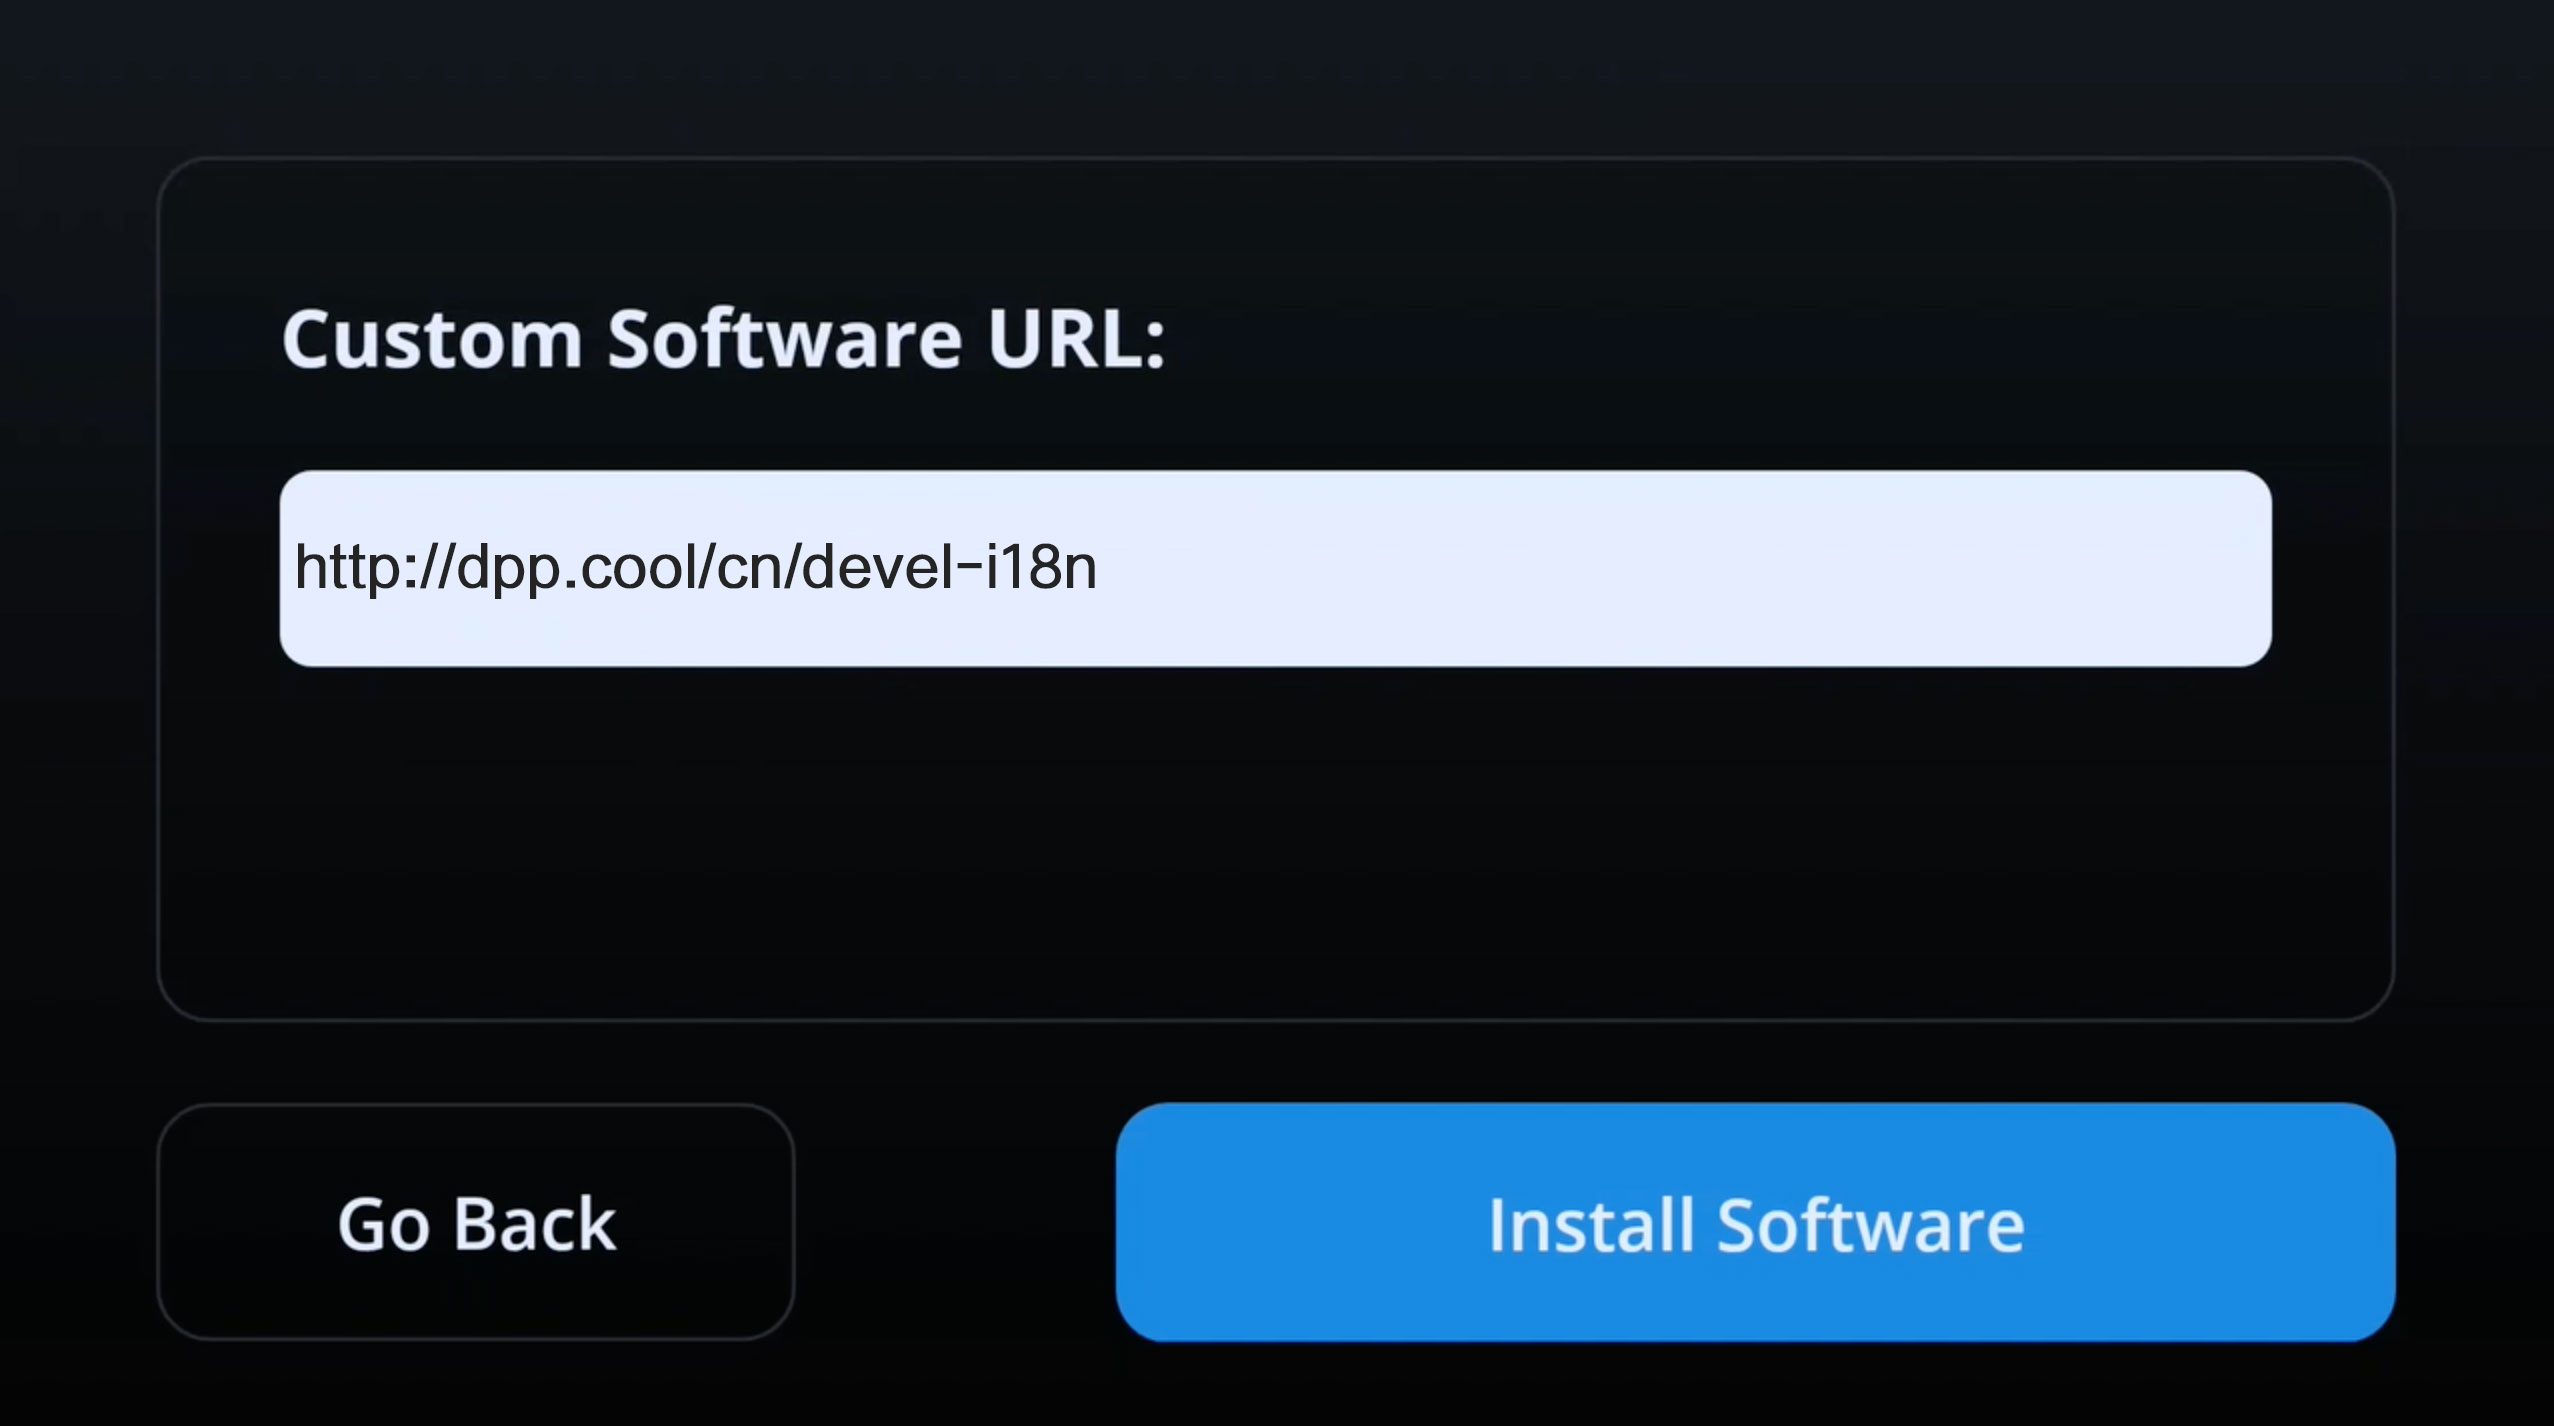
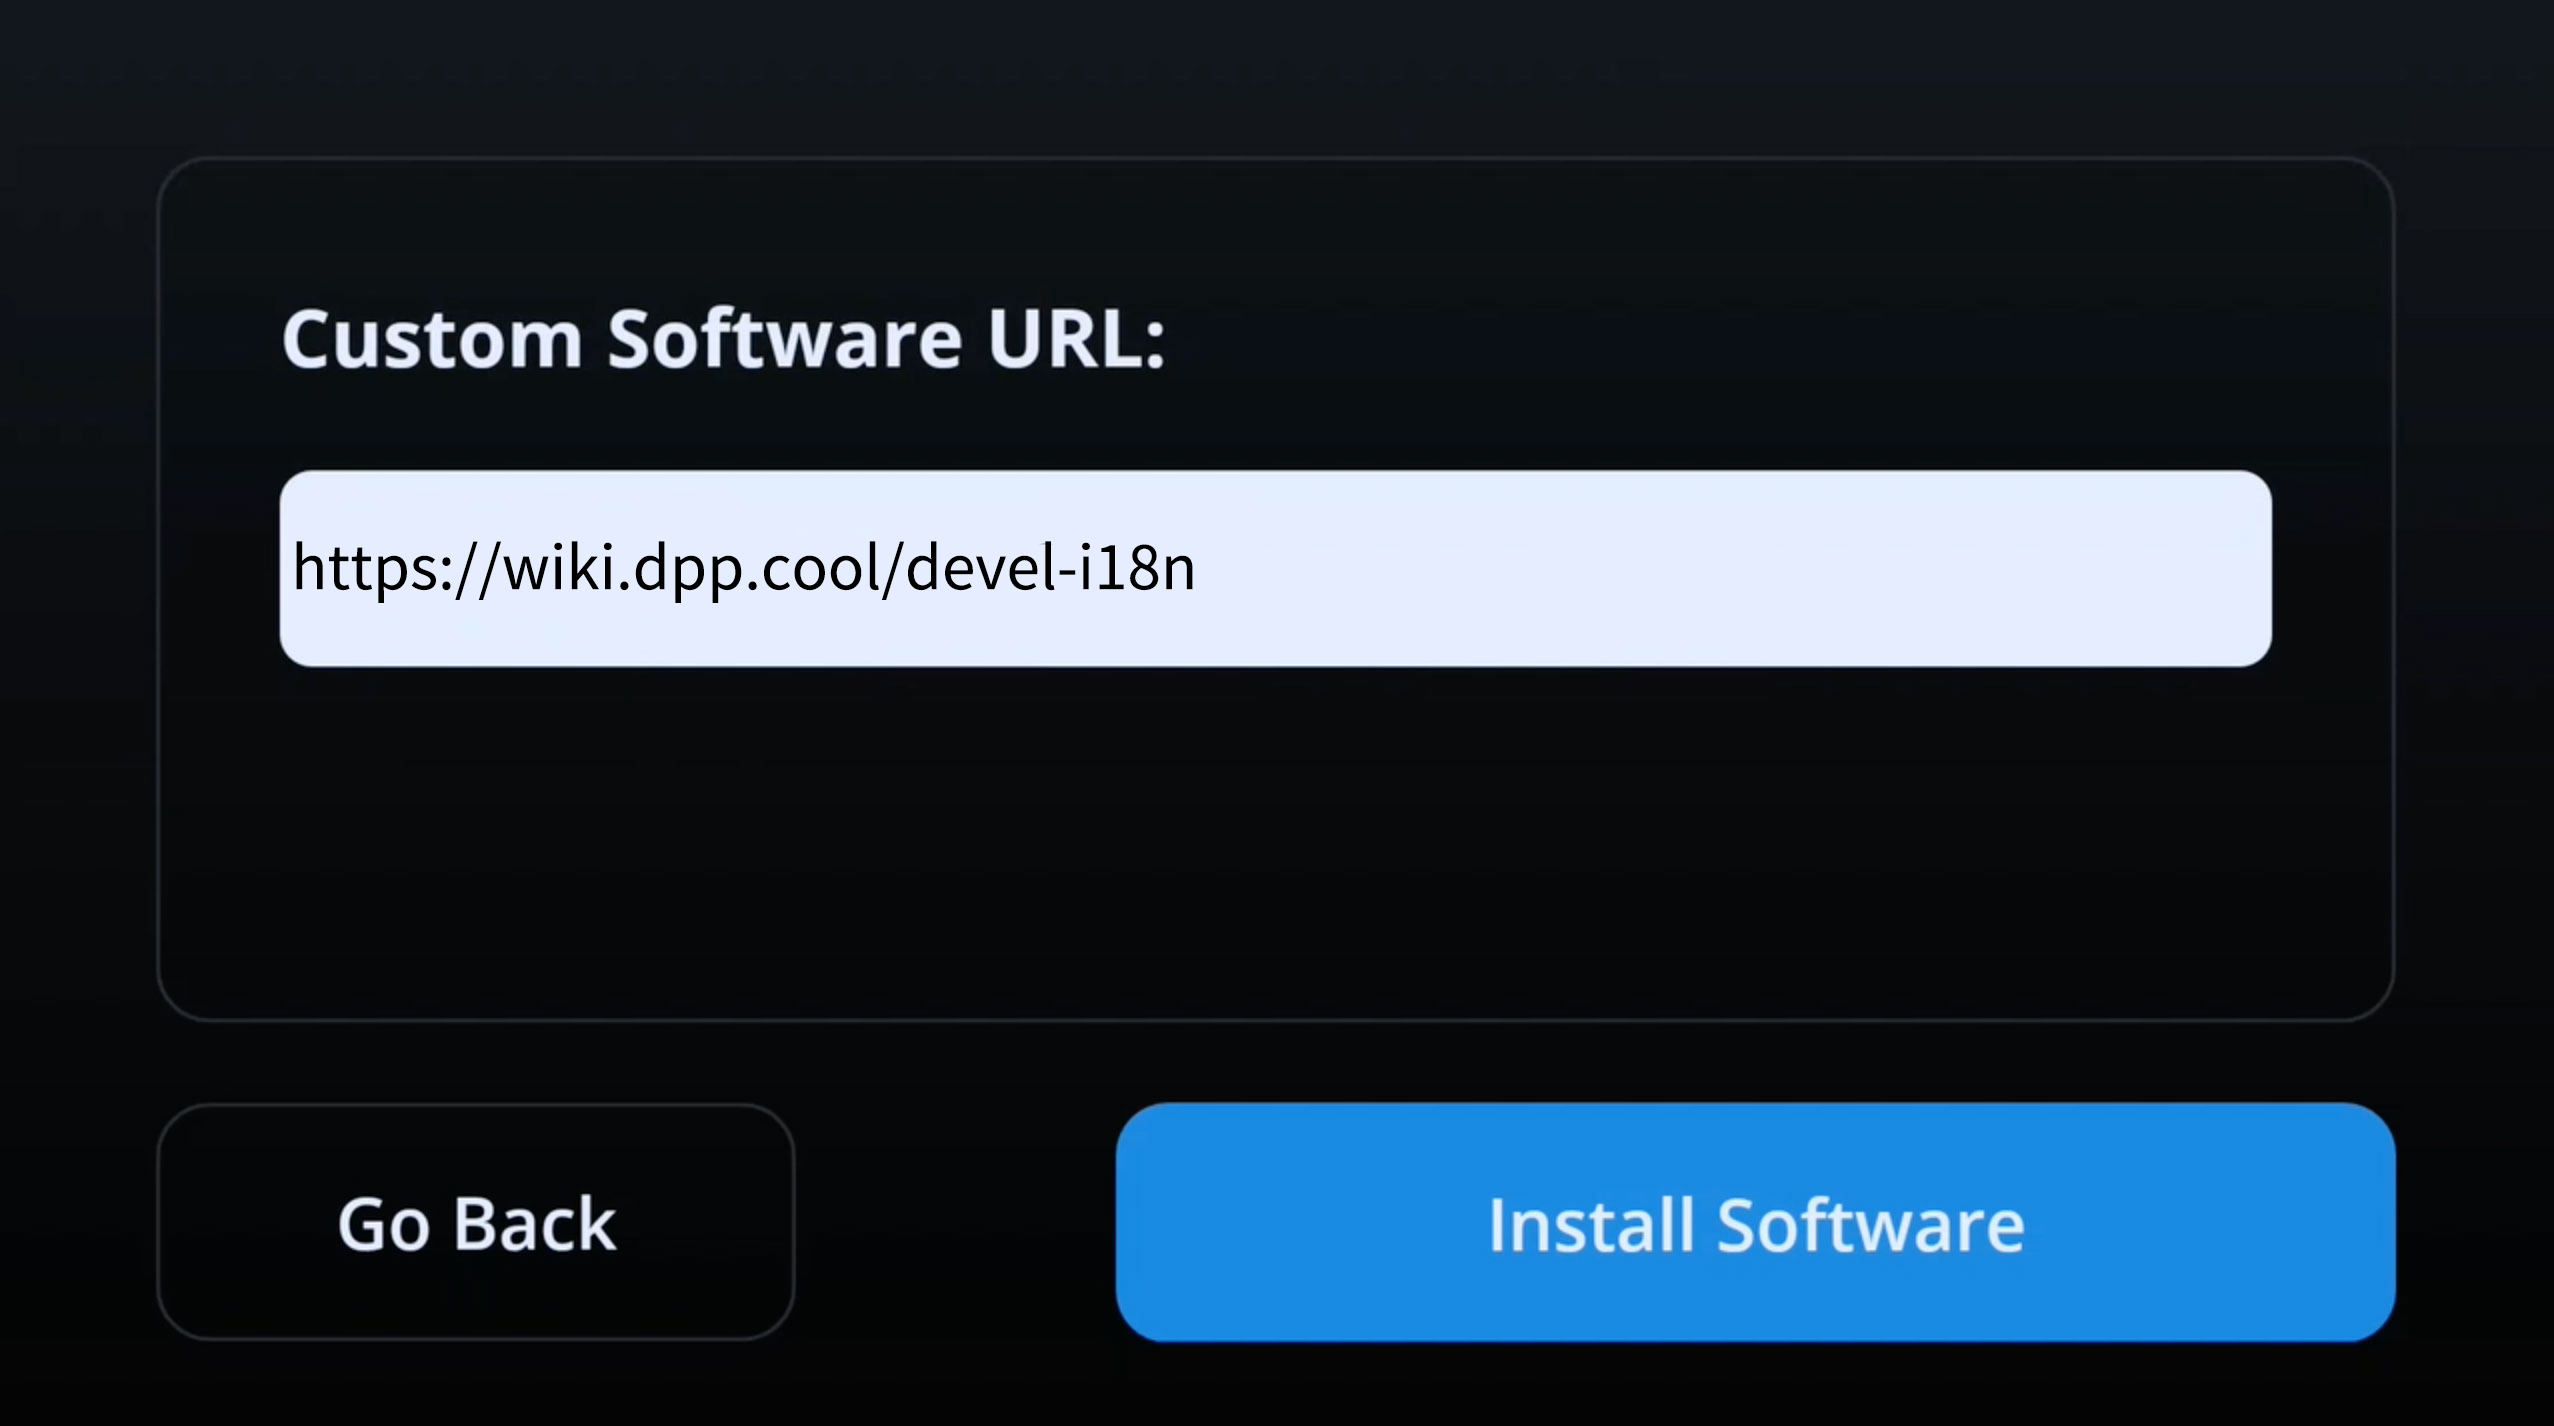
修改增加ui界面网址

Changed region(s): [[0.0928, 0.3703, 0.464, 0.432]]

diff --git a/cn/how_to_change_openpilot_fork_via_ui.md b/cn/how_to_change_openpilot_fork_via_ui.md
@@ -4,26 +4,35 @@
 
 ### 简介
 
-因为大部分用户并不是专业人员，不会通过 ssh 操作切换第三方的 fork，所以我根据官方的 openpilot 安装方式改写了这个项目，使 openpilot 的非官方 fork 安装也可以通过界面操作完成。
-
-由于国内网络访问 github 的速度不佳，我制作了这个存储在 gitee 上的 [openpilot 代码镜像项目](/mirror.md)，当你通过这种方式安装 openpilot 的时候，程序会根据你的网络自动选择代码的下载地址（github 或者 gitee），从而解决了安装速度慢的问题。
+因为大部分用户并不是专业人员，不会通过 ssh 操作切换第三方的 fork，不同小组根据官方的 openpilot 安装方式改写了这项目，使 openpilot 的非官方 fork 安装也可以通过界面操作完成。
 
 
 
-【devel-i18n分支】https://wiki.dpp.cool/devel-i18n
-
-【testing分支】https://wiki.dpp.cool/testing
-
-### 支持的 fork
+目前DP和MP都可以通过UI界面进行安装
 
 
-installer使用镜像为 https://hub.fastgit.org/dragonpilot-community/dragonpilot 内镜像
 
-##### 尽量使用电信wifi情况下用界面UI安装，已知北方移动宽带，联通宽带容易出现下载失败
+###  DP fork
 
-界面UI现在仅有以下两个分支dp的两个分支，如果研究过官方installer代码，有自己编译installer的能力，可以生成后联系我们添加对应网址
+由于国内网络访问 github 的速度不佳，dp维护小组使用了CDN加速，下载CDN上的git压缩包，加快下载速度
+
+分支名|特点|域名
+-|-
+0.7.8-i18n分支|0.7.8稳定分支|https://wiki.dpp.cool/0.7.8-i18n
+devel-i18n分支|开发分支，相对稳定测试分支|https://wiki.dpp.cool/devel-i18n
+testing分支|新功能尝鲜分支，可能不稳定有bug|https://wiki.dpp.cool/testing
 
 
+
+### 买买熊团队支持的 MP fork（MyPilot）
+分支名|域名
+-|-
+MP稳定版本|https://c2.openpilot.net
+MP定制版本| https://c2.openpilot.net/op/custom 
+
+pc浏览器直接访问https://c2.openpilot.net 可以看到对应的界面管理页面以及MP版本说明
+
+![mypliot](../files/how_to_change_openpilot_fork_via_ui/mypliot.jpg)
 
 
 
